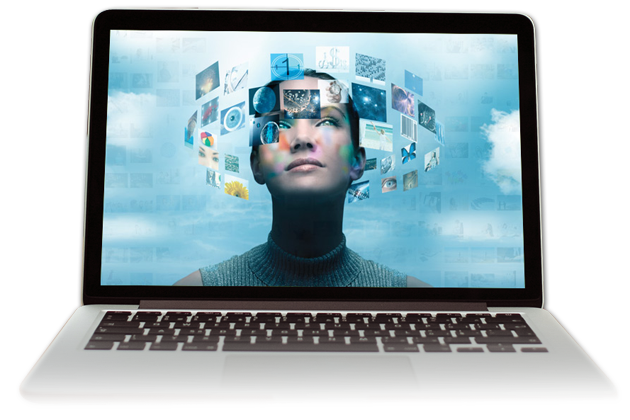
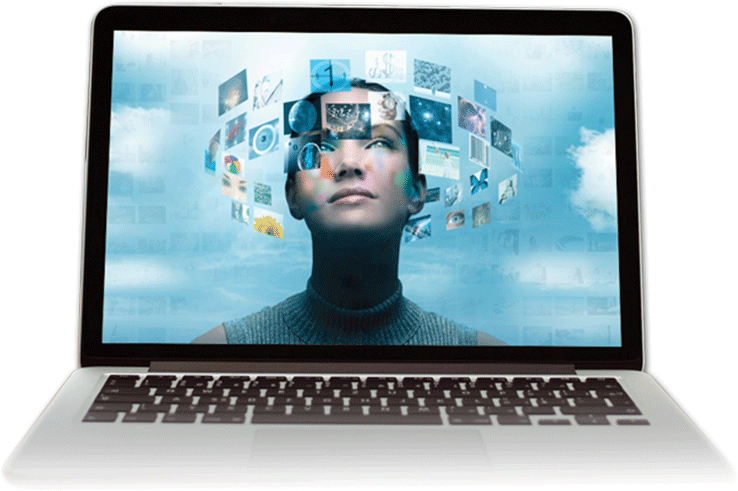
update

diff --git a/starad24_ui_html/index_new.html b/starad24_ui_html/index_new.html
@@ -55,8 +55,8 @@
 					<!-- Logo
 					============================================= -->
 					<div id="logo">
-						<a href="index.html" class="standard-logo" data-dark-logo="images/logo_starad24.png"><img src="images/logo_starad24.png" alt="StarAd24 Logo"></a>
-						<a href="index.html" class="retina-logo" data-dark-logo="images/logo_starad24.png"><img src="images/logo_starad24.png" alt="StarAd24 Logo"></a>
+						<a href="#" class="standard-logo" data-dark-logo="images/logo_starad24.png"><img src="images/logo_starad24.png" alt="StarAd24 Logo"></a>
+						<a href="#" class="retina-logo" data-dark-logo="images/logo_starad24.png"><img src="images/logo_starad24.png" alt="StarAd24 Logo"></a>
 					</div><!-- #logo end -->
 
 					<!-- Primary Navigation
@@ -220,7 +220,7 @@
 		============================================= -->
 		<section id="content">
 
-			<div class="content-wrap">
+			<div class="content-wrap notopmargin nobottompadding">
 
 				<div class="container clearfix">
 					<div class="row clearfix">
@@ -233,11 +233,16 @@
 							<p class="lead">Get started now to get the ball on your personal career with STARAD24 rolling.</p>
 						</div>
 
-						<div class="col-lg-7">
+						<div class="col-lg-7 center">
 
-							<div style="position: relative; margin-bottom: -60px;" class="ohidden" data-height-lg="426" data-height-md="567" data-height-sm="470" data-height-xs="287" data-height-xxs="183">
-								<img src="images/customization/vision_composed.png" style="position: absolute; top: 0; left: 0;" data-animate="fadeInUp" data-delay="100" alt="Chrome">
+							<!--<div style="position: relative; margin-bottom: -60px;" class="ohidden" data-height-lg="426" data-height-md="567" data-height-sm="470" data-height-xs="287" data-height-xxs="183">-->
+							<!--<div style="position: relative; margin-bottom: -60px;" class="ohidden" data-height-lg="520" data-height-md="570" data-height-sm="565" data-height-xs="380" data-height-xxs="380">-->
+								<!--<img src="images/customization/vision-composed.png" style="position: absolute; top: 0; left: 0;" data-animate="fadeInUp" data-delay="100" alt="Chrome">-->
 								<!--<img src="images/services/main-fmobile.png" style="position: absolute; top: 0; left: 0;" data-animate="fadeInUp" data-delay="400" alt="iPad">-->
+								
+								<img src="images/customization/vision-composed.png" class="bottommargin-sm"  data-animate="fadeInUp" data-delay="100" alt="Chrome">
+								
+								
 							</div>
 
 						</div>
@@ -246,11 +251,11 @@
 				</div>
 
 				<div class="section nobottommargin">
-					<div class="container clear-bottommargin clearfix">
+					<div class="container">
 
 						<!--<div class="row topmargin-sm clearfix" style="text-align:center;">-->
 							
-					    <div class="row topmargin-sm clearfix text-center">
+					    <div class="row m-t-20 clearfix text-center">
 
 							<!--<div class="col-md-4 bottommargin">-->
 								<div class="col-md-4">
@@ -386,7 +391,7 @@
 
 				</div>
 
-				<div class="row clearfix bottommargin-lg common-height"  >
+				<div class="row clearfix bottommargin-lg common-height currency-counter"  >
 
 					<div class="col-md-3 col-sm-6 dark center col-padding" style="background-color: rgba(143,102,53,0.15);">
 						<div>
@@ -423,6 +428,8 @@
 				</div>
 
 				<div class="container clearfix">
+					
+					<div class="row">
 
 					<div class="col_one_third">
 						<div class="feature-box fbox-small fbox-plain" data-animate="fadeIn">
@@ -536,6 +543,8 @@
 					
 -->					
 <div class="clear"></div>
+
+</div>
 
 				</div>
 
@@ -731,15 +740,15 @@
                     </div>
                 </div>
 
-				<div class="container clearfix">
+				<div class="container clearfix p-t-10">
 
-					<div class="col_one_third bottommargin-sm center">
-						<img data-animate="fadeInLeft" src="images/customization/iphone6.jpg" alt="Iphone">
+					<div class="col_one_third nobottommargin text-center">
+						<img data-animate="fadeInLeft" class="topmargin nobottommargin" src="images/customization/iphone6.png" alt="Iphone">
 					</div>
 
 					<div class="col_two_third bottommargin-sm col_last">
 
-						<div class="heading-block topmargin-sm nobottommargin">
+						<div class="heading-block topmargin-lg">
 							<h2>Optimized for Mobile &amp; Touch Enabled Devices.</h2>
 						</div>
 
@@ -876,7 +885,7 @@
 
 				</div>
 
-				<div class="section heading-section notopmargin notopborder">
+				<div class="section heading-section notopmargin notopborder  p-b-30">
 					<div class="container clearfix">
 						<div class="heading-block center nomargin">
 							<h3>Latest News</h3>

diff --git a/starad24_ui_html/css/customization.css b/starad24_ui_html/css/customization.css
@@ -24,9 +24,13 @@
 .dark .slider-caption p{margin:0 150px;}
 
 #header, #header-wrap, #logo img, #primary-menu:not(.style-2), #primary-menu:not(.style-2) > ul{height:80px;}
-#primary-menu ul li{line-height:80px;}
+#primary-menu ul li{line-height:75px;}
 #primary-menu ul li a{height:80px; line-height: 80px;}
 #header.sticky-header:not(.static-sticky) #primary-menu > ul > li{line-height:60px;}
+
+#primary-menu ul ul, #primary-menu ul li .mega-menu-content{top:80px}
+#top-cart .top-cart-content{top:50px}
+#top-search, #top-cart, #side-panel-trigger{margin: 30px 0;}
 
 
 @media (min-width: 1156px) and (max-width: 1437px)
@@ -40,6 +44,12 @@
 {
 	#primary-menu ul li a{padding: 0 3px; letter-spacing:0; font-size: 11px;}
 	#header.full-header #primary-menu > ul{margin-right: 2px; padding-right: 2px;}
+}
+
+
+@media (min-width: 768px) and (max-width: 992px)
+{
+.currency-counter .col-sm-6{width: 49.8%; margin: 0.1%}
 }
 
 @media (max-width: 991px) 
@@ -289,20 +299,23 @@ label.error
 { font-weight: 700; }
 
 
-
-
-
-
-
-
-
 #content p{font-size: 18px; line-height:26px;}
 .counter.counter-small{font-size: 24px}
 
 
 
 
+h1, h2, h3, h4, h5, h6, p{margin-top: 0; margin-bottom:30px}
+
+
+
 /* Style Overwrite Ends */
+
+
+
+
+
+
 
 
 /* Common Starts */
@@ -317,6 +330,171 @@ label.error
 
 strong, .font-ultra-bold
 {font-weight: 900}
+
+.padding-10{
+	padding:10px;
+}
+.padding-20{
+	padding:20px;
+}
+/** Padding top **/
+.p-t-10{
+	padding-top:10px;
+}
+.p-t-20{
+	padding-top:20px;
+}
+.p-t-30{
+	padding-top:30px;
+}
+.p-t-40{
+	padding-top:40px;
+}
+.p-t-50{
+	padding-top:50px;
+}
+.p-t-60{
+	padding-top:60px;
+}
+.p-t-70{
+	padding-top:70px;
+}
+.p-t-80{
+	padding-top:80px;
+}
+/** Padding Bottom **/
+.p-b-10{
+	padding-bottom:10px;
+}
+.p-b-20{
+	padding-bottom:20px;
+}
+.p-b-30{
+	padding-bottom:30px;
+}
+.p-b-40{
+	padding-bottom:40px;
+}
+.p-b-50{
+	padding-bottom:50px;
+}
+.p-b-60{
+	padding-bottom:60px;
+}
+/** Padding Left **/
+.p-l-10{
+	padding-left:10px;
+}
+.p-l-20{
+	padding-left:20px;
+}
+.p-l-30{
+	padding-left:30px;
+}
+.p-l-40{
+	padding-left:40px;
+}
+.p-l-50{
+	padding-left:50px;
+}
+.p-l-50{
+	padding-left:50px;
+}
+/** Padding Right **/
+.p-r-10{
+	padding-right:10px;
+}
+.p-r-20{
+	padding-right:20px;
+}
+.p-r-30{
+	padding-right:30px;
+}
+.p-r-40{
+	padding-right:40px;
+}
+.p-r-50{
+	padding-right:50px;
+}
+.p-r-60{
+	padding-right:60PX;
+}
+
+/** Margins **/
+.margin-10{
+	margin:10px;
+}
+.margin-20{
+	margin:20px;
+}
+/** Padding top **/
+.m-t-10{
+	margin-top:10px;
+}
+.m-t-20{
+	margin-top:20px;
+}
+.m-t-30{
+	margin-top:30px;
+}
+.m-t-40{
+	margin-top:40px;
+}
+.m-t-50{
+	margin-top:50px;
+}
+.m-t-60{
+	margin-top:60px;
+}
+/** Padding Bottom **/
+.m-b-10{
+	margin-bottom:10px;
+}
+.m-b-20{
+	margin-bottom:20px;
+}
+.m-b-30{
+	margin-bottom:30px;
+}
+.m-b-40{
+	margin-bottom:40px;
+}
+.m-b-50{
+	margin-bottom:50px;
+}
+.m-b-60{
+	margin-bottom:60px;
+}
+.m-b-70{
+	margin-bottom:70px;
+}
+/** Padding Left **/
+.m-l-10{
+	margin-left:10px;
+}
+.m-l-20{
+	margin-left:20px;
+}
+.m-l-30{
+	margin-left:30px;
+}
+.m-l-40{
+	margin-left:40px;
+}
+
+/** Padding Right **/
+.m-r-10{
+	margin-right:10px;
+}
+.m-r-20{
+	margin-right:20px;
+}
+.m-r-30{
+	margin-right:30px;
+}
+.m-r-40{
+	margin-right:40px;
+}
 
 
 /* Common End */

diff --git a/starad24_ui_html/style.css b/starad24_ui_html/style.css
@@ -10682,6 +10682,13 @@ label.error { display: none !important; }
 
 .heading-block ~ p:not(.lead) { font-size: 22px; }
 
+
+.tright .heading-block,
+.heading-block.tright,
+.heading-block.title-right { direction: rtl; }
+
+/* hide by vasanth  starts--
+
 .heading-block:after {
 	content: '';
 	display: block;
@@ -10690,18 +10697,21 @@ label.error { display: none !important; }
 	border-top: 2px solid #444;
 }
 
+
+
 .center .heading-block:after,
 .heading-block.center:after,
 .heading-block.title-center:after { margin: 30px auto 0; }
 
-.tright .heading-block,
-.heading-block.tright,
-.heading-block.title-right { direction: rtl; }
+
 
 .heading-block.noborder:after,
 .heading-block.nobottomborder:after { display: none; }
 
 .heading-block.border-color:after { border-color: #4D4B49; }
+
+--hide by vasanth end */
+
 
 
 /* Emphasis Title
